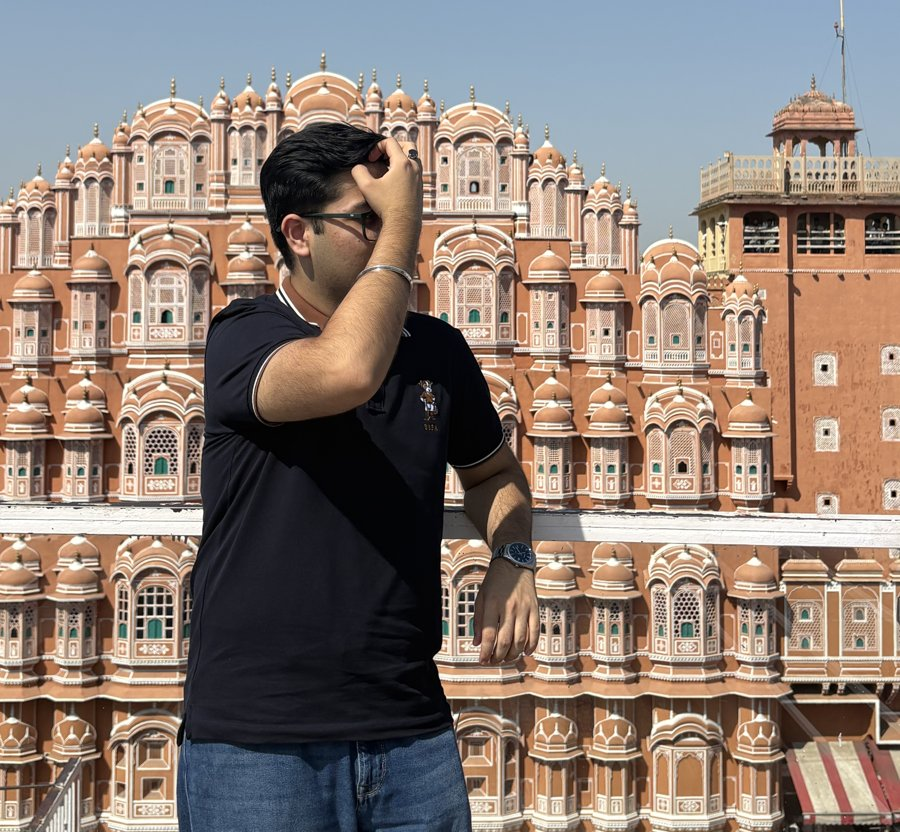
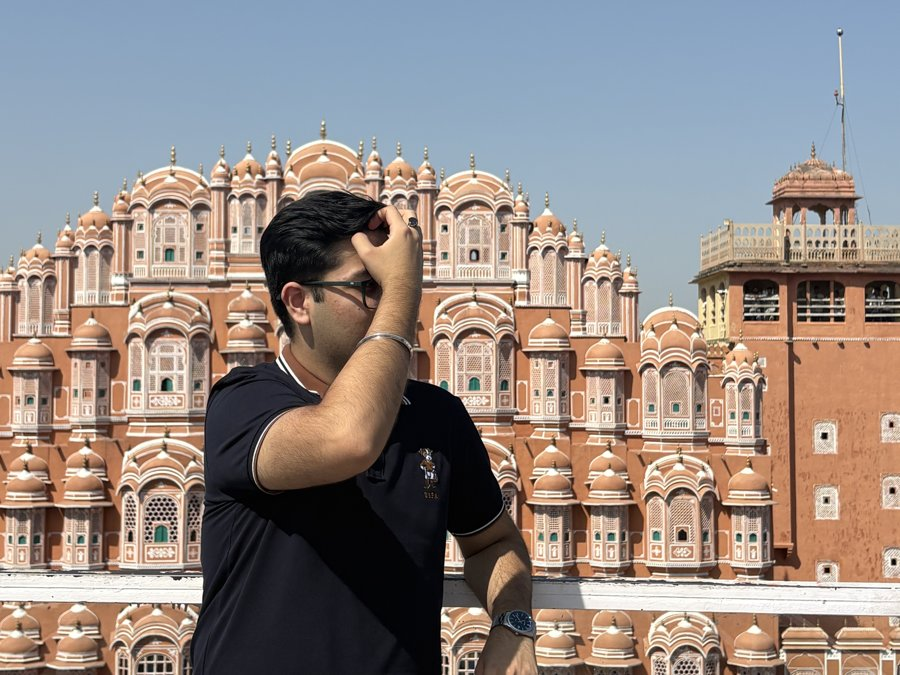
life: senior mention, tighter Jaipur crop

diff --git a/app/life/page.tsx b/app/life/page.tsx
@@ -52,7 +52,7 @@ export default function LifePage() {
               </p>
 
               <p>
-              <Photo src="/life/jaipur.jpg?v=2" alt="Aryan in front of Hawa Mahal, Jaipur" caption="Hawa Mahal, Jaipur" size="right" aspect="900 / 832" />
+              <Photo src="/life/jaipur.jpg?v=3" alt="Aryan in front of Hawa Mahal, Jaipur" caption="Hawa Mahal, Jaipur" size="right" aspect="900 / 675" />
                 Jaipur is a beautiful city, and it quickly became home. I started engineering with a MacBook and a very basic
                 knowledge of HTML, CSS and Python. Around me, hackathons were happening everywhere, and I remember literally
                 searching YouTube for <U>“what is a hackathon, and what do you do in it?”</U> — and still being confused about how
@@ -62,8 +62,9 @@ export default function LifePage() {
               <p>
                 So I started exploring. I sat in on tech summits and went to{" "}
                 <U>Google DevFest</U>, and slowly things started making sense. I created my GitHub account and figured out how it
-                all works. Then I joined the <U>AI² lab</U>, where a senior gave me direction — learn ML, then deep learning, then
-                GenAI — and in first year itself I got an <Win>R&amp;D ML internship at Elumina AI</Win>.
+                all works. Then I joined the <U>AI² lab</U>, and that is where I met a senior who became{" "}
+                <Win>one of the most special people in my journey</Win>. He believed in me before I did, and patiently guided me
+                from the basics of machine learning all the way to deep learning and generative AI. Because of him, in first year itself I got an <Win>R&amp;D ML internship at Elumina AI</Win>.
               </p>
               <p>
               <PhotoSlides srcs={["/uniway_project.webp", "/uniway_hackathon1.webp", "/uniway_hackathon2.webp", "/uniway_hackthon2.5.webp", "/uniway_hackathon3.webp"]} caption="UniWay hackathon" size="left" aspect="10 / 7" />
